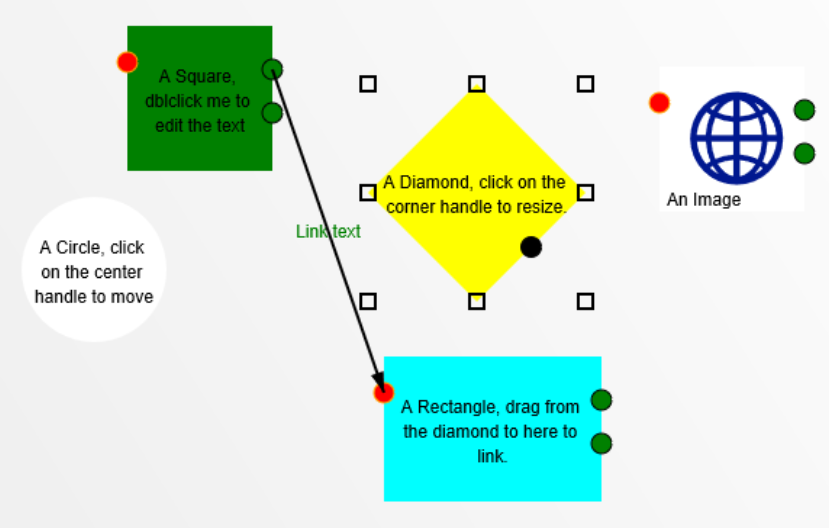
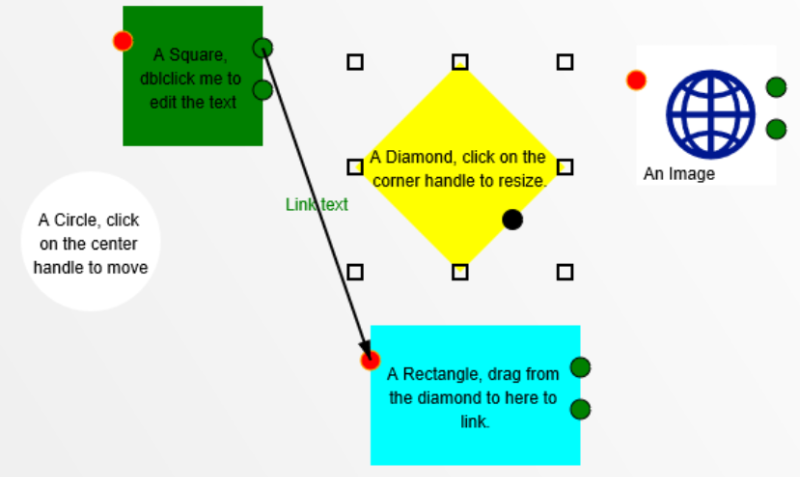
Added rough option

diff --git a/rough.js b/rough.js
@@ -1,0 +1,1 @@
+var rough=function(){"use strict";function t(t,e,s){if(t&&t.length){const[n,o]=e,a=Math.PI/180*s,r=Math.cos(a),h=Math.sin(a);t.forEach(t=>{const[e,s]=t;t[0]=(e-n)*r-(s-o)*h+n,t[1]=(e-n)*h+(s-o)*r+o})}}function e(t){const e=t[0],s=t[1];return Math.sqrt(Math.pow(e[0]-s[0],2)+Math.pow(e[1]-s[1],2))}function s(t,e,s,n){const o=e[1]-t[1],a=t[0]-e[0],r=o*t[0]+a*t[1],h=n[1]-s[1],i=s[0]-n[0],c=h*s[0]+i*s[1],l=o*i-h*a;return l?[(i*r-a*c)/l,(o*c-h*r)/l]:null}function n(t,e,s){const n=t.length;if(n<3)return!1;const h=[Number.MAX_SAFE_INTEGER,s],i=[e,s];let c=0;for(let e=0;e<n;e++){const s=t[e],l=t[(e+1)%n];if(r(s,l,i,h)){if(0===a(s,i,l))return o(s,i,l);c++}}return c%2==1}function o(t,e,s){return e[0]<=Math.max(t[0],s[0])&&e[0]>=Math.min(t[0],s[0])&&e[1]<=Math.max(t[1],s[1])&&e[1]>=Math.min(t[1],s[1])}function a(t,e,s){const n=(e[1]-t[1])*(s[0]-e[0])-(e[0]-t[0])*(s[1]-e[1]);return 0===n?0:n>0?1:2}function r(t,e,s,n){const r=a(t,e,s),h=a(t,e,n),i=a(s,n,t),c=a(s,n,e);return r!==h&&i!==c||(!(0!==r||!o(t,s,e))||(!(0!==h||!o(t,n,e))||(!(0!==i||!o(s,t,n))||!(0!==c||!o(s,e,n)))))}function h(e,s){const n=[0,0],o=Math.round(s.hachureAngle+90);o&&t(e,n,o);const a=function(t,e){const s=[...t];s[0].join(",")!==s[s.length-1].join(",")&&s.push([s[0][0],s[0][1]]);const n=[];if(s&&s.length>2){let t=e.hachureGap;t<0&&(t=4*e.strokeWidth),t=Math.max(t,.1);const o=[];for(let t=0;t<s.length-1;t++){const e=s[t],n=s[t+1];if(e[1]!==n[1]){const t=Math.min(e[1],n[1]);o.push({ymin:t,ymax:Math.max(e[1],n[1]),x:t===e[1]?e[0]:n[0],islope:(n[0]-e[0])/(n[1]-e[1])})}}if(o.sort((t,e)=>t.ymin<e.ymin?-1:t.ymin>e.ymin?1:t.x<e.x?-1:t.x>e.x?1:t.ymax===e.ymax?0:(t.ymax-e.ymax)/Math.abs(t.ymax-e.ymax)),!o.length)return n;let a=[],r=o[0].ymin;for(;a.length||o.length;){if(o.length){let t=-1;for(let e=0;e<o.length&&!(o[e].ymin>r);e++)t=e;o.splice(0,t+1).forEach(t=>{a.push({s:r,edge:t})})}if(a=a.filter(t=>!(t.edge.ymax<=r)),a.sort((t,e)=>t.edge.x===e.edge.x?0:(t.edge.x-e.edge.x)/Math.abs(t.edge.x-e.edge.x)),a.length>1)for(let t=0;t<a.length;t+=2){const e=t+1;if(e>=a.length)break;const s=a[t].edge,o=a[e].edge;n.push([[Math.round(s.x),r],[Math.round(o.x),r]])}r+=t,a.forEach(e=>{e.edge.x=e.edge.x+t*e.edge.islope})}}return n}(e,s);return o&&(t(e,n,-o),function(e,s,n){const o=[];e.forEach(t=>o.push(...t)),t(o,s,n)}(a,n,-o)),a}class i{constructor(t){this.helper=t}fillPolygon(t,e){return this._fillPolygon(t,e)}_fillPolygon(t,e,s=!1){let n=h(t,e);if(s){const e=this.connectingLines(t,n);n=n.concat(e)}return{type:"fillSketch",ops:this.renderLines(n,e)}}renderLines(t,e){const s=[];for(const n of t)s.push(...this.helper.doubleLineOps(n[0][0],n[0][1],n[1][0],n[1][1],e));return s}connectingLines(t,s){const n=[];if(s.length>1)for(let o=1;o<s.length;o++){const a=s[o-1];if(e(a)<3)continue;const r=[s[o][0],a[1]];if(e(r)>3){const e=this.splitOnIntersections(t,r);n.push(...e)}}return n}midPointInPolygon(t,e){return n(t,(e[0][0]+e[1][0])/2,(e[0][1]+e[1][1])/2)}splitOnIntersections(t,o){const a=Math.max(5,.1*e(o)),h=[];for(let n=0;n<t.length;n++){const i=t[n],c=t[(n+1)%t.length];if(r(i,c,...o)){const t=s(i,c,o[0],o[1]);if(t){const s=e([t,o[0]]),n=e([t,o[1]]);s>a&&n>a&&h.push({point:t,distance:s})}}}if(h.length>1){const e=h.sort((t,e)=>t.distance-e.distance).map(t=>t.point);if(n(t,...o[0])||e.shift(),n(t,...o[1])||e.pop(),e.length<=1)return this.midPointInPolygon(t,o)?[o]:[];const s=[o[0],...e,o[1]],a=[];for(let e=0;e<s.length-1;e+=2){const n=[s[e],s[e+1]];this.midPointInPolygon(t,n)&&a.push(n)}return a}return this.midPointInPolygon(t,o)?[o]:[]}}class c extends i{fillPolygon(t,e){return this._fillPolygon(t,e,!0)}}class l extends i{fillPolygon(t,e){const s=this._fillPolygon(t,e),n=Object.assign({},e,{hachureAngle:e.hachureAngle+90}),o=this._fillPolygon(t,n);return s.ops=s.ops.concat(o.ops),s}}class u{constructor(t){this.helper=t}fillPolygon(t,e){const s=h(t,e=Object.assign({},e,{curveStepCount:4,hachureAngle:0,roughness:1}));return this.dotsOnLines(s,e)}dotsOnLines(t,s){const n=[];let o=s.hachureGap;o<0&&(o=4*s.strokeWidth),o=Math.max(o,.1);let a=s.fillWeight;a<0&&(a=s.strokeWidth/2);const r=o/4;for(const h of t){const t=e(h),i=t/o,c=Math.ceil(i)-1,l=t-c*o,u=(h[0][0]+h[1][0])/2-o/4,f=Math.min(h[0][1],h[1][1]);for(let t=0;t<c;t++){const e=f+l+t*o,h=this.helper.randOffsetWithRange(u-r,u+r,s),i=this.helper.randOffsetWithRange(e-r,e+r,s),c=this.helper.ellipse(h,i,a,a,s);n.push(...c.ops)}}return{type:"fillSketch",ops:n}}}class f{constructor(t){this.helper=t}fillPolygon(t,e){const s=h(t,e);return{type:"fillSketch",ops:this.dashedLine(s,e)}}dashedLine(t,s){const n=s.dashOffset<0?s.hachureGap<0?4*s.strokeWidth:s.hachureGap:s.dashOffset,o=s.dashGap<0?s.hachureGap<0?4*s.strokeWidth:s.hachureGap:s.dashGap,a=[];return t.forEach(t=>{const r=e(t),h=Math.floor(r/(n+o)),i=(r+o-h*(n+o))/2;let c=t[0],l=t[1];c[0]>l[0]&&(c=t[1],l=t[0]);const u=Math.atan((l[1]-c[1])/(l[0]-c[0]));for(let t=0;t<h;t++){const e=t*(n+o),r=e+n,h=[c[0]+e*Math.cos(u)+i*Math.cos(u),c[1]+e*Math.sin(u)+i*Math.sin(u)],l=[c[0]+r*Math.cos(u)+i*Math.cos(u),c[1]+r*Math.sin(u)+i*Math.sin(u)];a.push(...this.helper.doubleLineOps(h[0],h[1],l[0],l[1],s))}}),a}}class p{constructor(t){this.helper=t}fillPolygon(t,e){const s=e.hachureGap<0?4*e.strokeWidth:e.hachureGap,n=e.zigzagOffset<0?s:e.zigzagOffset,o=h(t,e=Object.assign({},e,{hachureGap:s+n}));return{type:"fillSketch",ops:this.zigzagLines(o,n,e)}}zigzagLines(t,s,n){const o=[];return t.forEach(t=>{const a=e(t),r=Math.round(a/(2*s));let h=t[0],i=t[1];h[0]>i[0]&&(h=t[1],i=t[0]);const c=Math.atan((i[1]-h[1])/(i[0]-h[0]));for(let t=0;t<r;t++){const e=2*t*s,a=2*(t+1)*s,r=Math.sqrt(2*Math.pow(s,2)),i=[h[0]+e*Math.cos(c),h[1]+e*Math.sin(c)],l=[h[0]+a*Math.cos(c),h[1]+a*Math.sin(c)],u=[i[0]+r*Math.cos(c+Math.PI/4),i[1]+r*Math.sin(c+Math.PI/4)];o.push(...this.helper.doubleLineOps(i[0],i[1],u[0],u[1],n),...this.helper.doubleLineOps(u[0],u[1],l[0],l[1],n))}}),o}}const d={};class g{constructor(t){this.seed=t}next(){return this.seed?(2**31-1&(this.seed=Math.imul(48271,this.seed)))/2**31:Math.random()}}const M={A:7,a:7,C:6,c:6,H:1,h:1,L:2,l:2,M:2,m:2,Q:4,q:4,S:4,s:4,T:2,t:2,V:1,v:1,Z:0,z:0};function k(t,e){return t.type===e}function b(t){const e=[],s=function(t){const e=new Array;for(;""!==t;)if(t.match(/^([ \t\r\n,]+)/))t=t.substr(RegExp.$1.length);else if(t.match(/^([aAcChHlLmMqQsStTvVzZ])/))e[e.length]={type:0,text:RegExp.$1},t=t.substr(RegExp.$1.length);else{if(!t.match(/^(([-+]?[0-9]+(\.[0-9]*)?|[-+]?\.[0-9]+)([eE][-+]?[0-9]+)?)/))return[];e[e.length]={type:1,text:""+parseFloat(RegExp.$1)},t=t.substr(RegExp.$1.length)}return e[e.length]={type:2,text:""},e}(t);let n="BOD",o=0,a=s[o];for(;!k(a,2);){let r=0;const h=[];if("BOD"===n){if("M"!==a.text&&"m"!==a.text)return b("M0,0"+t);o++,r=M[a.text],n=a.text}else k(a,1)?r=M[n]:(o++,r=M[a.text],n=a.text);if(!(o+r<s.length))throw new Error("Path data ended short");for(let t=o;t<o+r;t++){const e=s[t];if(!k(e,1))throw new Error("Param not a number: "+n+","+e.text);h[h.length]=+e.text}if("number"!=typeof M[n])throw new Error("Bad segment: "+n);{const t={key:n,data:h};e.push(t),o+=r,a=s[o],"M"===n&&(n="L"),"m"===n&&(n="l")}}return e}function y(t){let e=0,s=0,n=0,o=0;const a=[];for(const{key:r,data:h}of t)switch(r){case"M":a.push({key:"M",data:[...h]}),[e,s]=h,[n,o]=h;break;case"m":e+=h[0],s+=h[1],a.push({key:"M",data:[e,s]}),n=e,o=s;break;case"L":a.push({key:"L",data:[...h]}),[e,s]=h;break;case"l":e+=h[0],s+=h[1],a.push({key:"L",data:[e,s]});break;case"C":a.push({key:"C",data:[...h]}),e=h[4],s=h[5];break;case"c":{const t=h.map((t,n)=>n%2?t+s:t+e);a.push({key:"C",data:t}),e=t[4],s=t[5];break}case"Q":a.push({key:"Q",data:[...h]}),e=h[2],s=h[3];break;case"q":{const t=h.map((t,n)=>n%2?t+s:t+e);a.push({key:"Q",data:t}),e=t[2],s=t[3];break}case"A":a.push({key:"A",data:[...h]}),e=h[5],s=h[6];break;case"a":e+=h[5],s+=h[6],a.push({key:"A",data:[h[0],h[1],h[2],h[3],h[4],e,s]});break;case"H":a.push({key:"H",data:[...h]}),e=h[0];break;case"h":e+=h[0],a.push({key:"H",data:[e]});break;case"V":a.push({key:"V",data:[...h]}),s=h[0];break;case"v":s+=h[0],a.push({key:"V",data:[s]});break;case"S":a.push({key:"S",data:[...h]}),e=h[2],s=h[3];break;case"s":{const t=h.map((t,n)=>n%2?t+s:t+e);a.push({key:"S",data:t}),e=t[2],s=t[3];break}case"T":a.push({key:"T",data:[...h]}),e=h[0],s=h[1];break;case"t":e+=h[0],s+=h[1],a.push({key:"T",data:[e,s]});break;case"Z":case"z":a.push({key:"Z",data:[]}),e=n,s=o}return a}function m(t){const e=[];let s="",n=0,o=0,a=0,r=0,h=0,i=0;for(const{key:c,data:l}of t){switch(c){case"M":e.push({key:"M",data:[...l]}),[n,o]=l,[a,r]=l;break;case"C":e.push({key:"C",data:[...l]}),n=l[4],o=l[5],h=l[2],i=l[3];break;case"L":e.push({key:"L",data:[...l]}),[n,o]=l;break;case"H":n=l[0],e.push({key:"L",data:[n,o]});break;case"V":o=l[0],e.push({key:"L",data:[n,o]});break;case"S":{let t=0,a=0;"C"===s||"S"===s?(t=n+(n-h),a=o+(o-i)):(t=n,a=o),e.push({key:"C",data:[t,a,...l]}),h=l[0],i=l[1],n=l[2],o=l[3];break}case"T":{const[t,a]=l;let r=0,c=0;"Q"===s||"T"===s?(r=n+(n-h),c=o+(o-i)):(r=n,c=o);const u=n+2*(r-n)/3,f=o+2*(c-o)/3,p=t+2*(r-t)/3,d=a+2*(c-a)/3;e.push({key:"C",data:[u,f,p,d,t,a]}),h=r,i=c,n=t,o=a;break}case"Q":{const[t,s,a,r]=l,c=n+2*(t-n)/3,u=o+2*(s-o)/3,f=a+2*(t-a)/3,p=r+2*(s-r)/3;e.push({key:"C",data:[c,u,f,p,a,r]}),h=t,i=s,n=a,o=r;break}case"A":{const t=Math.abs(l[0]),s=Math.abs(l[1]),a=l[2],r=l[3],h=l[4],i=l[5],c=l[6];if(0===t||0===s)e.push({key:"C",data:[n,o,i,c,i,c]}),n=i,o=c;else if(n!==i||o!==c){P(n,o,i,c,t,s,a,r,h).forEach((function(t){e.push({key:"C",data:t})})),n=i,o=c}break}case"Z":e.push({key:"Z",data:[]}),n=a,o=r}s=c}return e}function w(t,e,s){return[t*Math.cos(s)-e*Math.sin(s),t*Math.sin(s)+e*Math.cos(s)]}function P(t,e,s,n,o,a,r,h,i,c){const l=(u=r,Math.PI*u/180);var u;let f=[],p=0,d=0,g=0,M=0;if(c)[p,d,g,M]=c;else{[t,e]=w(t,e,-l),[s,n]=w(s,n,-l);const r=(t-s)/2,c=(e-n)/2;let u=r*r/(o*o)+c*c/(a*a);u>1&&(u=Math.sqrt(u),o*=u,a*=u);const f=o*o,k=a*a,b=f*k-f*c*c-k*r*r,y=f*c*c+k*r*r,m=(h===i?-1:1)*Math.sqrt(Math.abs(b/y));g=m*o*c/a+(t+s)/2,M=m*-a*r/o+(e+n)/2,p=Math.asin(parseFloat(((e-M)/a).toFixed(9))),d=Math.asin(parseFloat(((n-M)/a).toFixed(9))),t<g&&(p=Math.PI-p),s<g&&(d=Math.PI-d),p<0&&(p=2*Math.PI+p),d<0&&(d=2*Math.PI+d),i&&p>d&&(p-=2*Math.PI),!i&&d>p&&(d-=2*Math.PI)}let k=d-p;if(Math.abs(k)>120*Math.PI/180){const t=d,e=s,h=n;d=i&&d>p?p+120*Math.PI/180*1:p+120*Math.PI/180*-1,f=P(s=g+o*Math.cos(d),n=M+a*Math.sin(d),e,h,o,a,r,0,i,[d,t,g,M])}k=d-p;const b=Math.cos(p),y=Math.sin(p),m=Math.cos(d),x=Math.sin(d),v=Math.tan(k/4),O=4/3*o*v,S=4/3*a*v,L=[t,e],T=[t+O*y,e-S*b],I=[s+O*x,n-S*m],A=[s,n];if(T[0]=2*L[0]-T[0],T[1]=2*L[1]-T[1],c)return[T,I,A].concat(f);{f=[T,I,A].concat(f);const t=[];for(let e=0;e<f.length;e+=3){const s=w(f[e][0],f[e][1],l),n=w(f[e+1][0],f[e+1][1],l),o=w(f[e+2][0],f[e+2][1],l);t.push([s[0],s[1],n[0],n[1],o[0],o[1]])}return t}}const x={randOffset:function(t,e){return W(t,e)},randOffsetWithRange:function(t,e,s){return E(t,e,s)},ellipse:function(t,e,s,n,o){const a=T(s,n,o);return I(t,e,o,a).opset},doubleLineOps:function(t,e,s,n,o){return z(t,e,s,n,o,!0)}};function v(t,e,s,n,o){return{type:"path",ops:z(t,e,s,n,o)}}function O(t,e,s){const n=(t||[]).length;if(n>2){const o=[];for(let e=0;e<n-1;e++)o.push(...z(t[e][0],t[e][1],t[e+1][0],t[e+1][1],s));return e&&o.push(...z(t[n-1][0],t[n-1][1],t[0][0],t[0][1],s)),{type:"path",ops:o}}return 2===n?v(t[0][0],t[0][1],t[1][0],t[1][1],s):{type:"path",ops:[]}}function S(t,e,s,n,o){return function(t,e){return O(t,!0,e)}([[t,e],[t+s,e],[t+s,e+n],[t,e+n]],o)}function L(t,e){let s=$(t,1*(1+.2*e.roughness),e);if(!e.disableMultiStroke){const n=$(t,1.5*(1+.22*e.roughness),function(t){const e=Object.assign({},t);e.randomizer=void 0,t.seed&&(e.seed=t.seed+1);return e}(e));s=s.concat(n)}return{type:"path",ops:s}}function T(t,e,s){const n=Math.sqrt(2*Math.PI*Math.sqrt((Math.pow(t/2,2)+Math.pow(e/2,2))/2)),o=Math.max(s.curveStepCount,s.curveStepCount/Math.sqrt(200)*n),a=2*Math.PI/o;let r=Math.abs(t/2),h=Math.abs(e/2);const i=1-s.curveFitting;return r+=W(r*i,s),h+=W(h*i,s),{increment:a,rx:r,ry:h}}function I(t,e,s,n){const[o,a]=q(n.increment,t,e,n.rx,n.ry,1,n.increment*E(.1,E(.4,1,s),s),s);let r=G(o,null,s);if(!s.disableMultiStroke){const[o]=q(n.increment,t,e,n.rx,n.ry,1.5,0,s),a=G(o,null,s);r=r.concat(a)}return{estimatedPoints:a,opset:{type:"path",ops:r}}}function A(t,e,s,n,o,a,r,h,i){const c=t,l=e;let u=Math.abs(s/2),f=Math.abs(n/2);u+=W(.01*u,i),f+=W(.01*f,i);let p=o,d=a;for(;p<0;)p+=2*Math.PI,d+=2*Math.PI;d-p>2*Math.PI&&(p=0,d=2*Math.PI);const g=2*Math.PI/i.curveStepCount,M=Math.min(g/2,(d-p)/2),k=F(M,c,l,u,f,p,d,1,i);if(!i.disableMultiStroke){const t=F(M,c,l,u,f,p,d,1.5,i);k.push(...t)}return r&&(h?k.push(...z(c,l,c+u*Math.cos(p),l+f*Math.sin(p),i),...z(c,l,c+u*Math.cos(d),l+f*Math.sin(d),i)):k.push({op:"lineTo",data:[c,l]},{op:"lineTo",data:[c+u*Math.cos(p),l+f*Math.sin(p)]})),{type:"path",ops:k}}function _(t,e){const s=[];if(t.length){const n=e.maxRandomnessOffset||0,o=t.length;if(o>2){s.push({op:"move",data:[t[0][0]+W(n,e),t[0][1]+W(n,e)]});for(let a=1;a<o;a++)s.push({op:"lineTo",data:[t[a][0]+W(n,e),t[a][1]+W(n,e)]})}}return{type:"fillPath",ops:s}}function C(t,e){return function(t,e){let s=t.fillStyle||"hachure";if(!d[s])switch(s){case"zigzag":d[s]||(d[s]=new c(e));break;case"cross-hatch":d[s]||(d[s]=new l(e));break;case"dots":d[s]||(d[s]=new u(e));break;case"dashed":d[s]||(d[s]=new f(e));break;case"zigzag-line":d[s]||(d[s]=new p(e));break;case"hachure":default:s="hachure",d[s]||(d[s]=new i(e))}return d[s]}(e,x).fillPolygon(t,e)}function D(t){return t.randomizer||(t.randomizer=new g(t.seed||0)),t.randomizer.next()}function E(t,e,s,n=1){return s.roughness*n*(D(s)*(e-t)+t)}function W(t,e,s=1){return E(-t,t,e,s)}function z(t,e,s,n,o,a=!1){const r=a?o.disableMultiStrokeFill:o.disableMultiStroke,h=R(t,e,s,n,o,!0,!1);if(r)return h;const i=R(t,e,s,n,o,!0,!0);return h.concat(i)}function R(t,e,s,n,o,a,r){const h=Math.pow(t-s,2)+Math.pow(e-n,2),i=Math.sqrt(h);let c=1;c=i<200?1:i>500?.4:-.0016668*i+1.233334;let l=o.maxRandomnessOffset||0;l*l*100>h&&(l=i/10);const u=l/2,f=.2+.2*D(o);let p=o.bowing*o.maxRandomnessOffset*(n-e)/200,d=o.bowing*o.maxRandomnessOffset*(t-s)/200;p=W(p,o,c),d=W(d,o,c);const g=[],M=()=>W(u,o,c),k=()=>W(l,o,c);return a&&(r?g.push({op:"move",data:[t+M(),e+M()]}):g.push({op:"move",data:[t+W(l,o,c),e+W(l,o,c)]})),r?g.push({op:"bcurveTo",data:[p+t+(s-t)*f+M(),d+e+(n-e)*f+M(),p+t+2*(s-t)*f+M(),d+e+2*(n-e)*f+M(),s+M(),n+M()]}):g.push({op:"bcurveTo",data:[p+t+(s-t)*f+k(),d+e+(n-e)*f+k(),p+t+2*(s-t)*f+k(),d+e+2*(n-e)*f+k(),s+k(),n+k()]}),g}function $(t,e,s){const n=[];n.push([t[0][0]+W(e,s),t[0][1]+W(e,s)]),n.push([t[0][0]+W(e,s),t[0][1]+W(e,s)]);for(let o=1;o<t.length;o++)n.push([t[o][0]+W(e,s),t[o][1]+W(e,s)]),o===t.length-1&&n.push([t[o][0]+W(e,s),t[o][1]+W(e,s)]);return G(n,null,s)}function G(t,e,s){const n=t.length,o=[];if(n>3){const a=[],r=1-s.curveTightness;o.push({op:"move",data:[t[1][0],t[1][1]]});for(let e=1;e+2<n;e++){const s=t[e];a[0]=[s[0],s[1]],a[1]=[s[0]+(r*t[e+1][0]-r*t[e-1][0])/6,s[1]+(r*t[e+1][1]-r*t[e-1][1])/6],a[2]=[t[e+1][0]+(r*t[e][0]-r*t[e+2][0])/6,t[e+1][1]+(r*t[e][1]-r*t[e+2][1])/6],a[3]=[t[e+1][0],t[e+1][1]],o.push({op:"bcurveTo",data:[a[1][0],a[1][1],a[2][0],a[2][1],a[3][0],a[3][1]]})}if(e&&2===e.length){const t=s.maxRandomnessOffset;o.push({op:"lineTo",data:[e[0]+W(t,s),e[1]+W(t,s)]})}}else 3===n?(o.push({op:"move",data:[t[1][0],t[1][1]]}),o.push({op:"bcurveTo",data:[t[1][0],t[1][1],t[2][0],t[2][1],t[2][0],t[2][1]]})):2===n&&o.push(...z(t[0][0],t[0][1],t[1][0],t[1][1],s));return o}function q(t,e,s,n,o,a,r,h){const i=[],c=[],l=W(.5,h)-Math.PI/2;c.push([W(a,h)+e+.9*n*Math.cos(l-t),W(a,h)+s+.9*o*Math.sin(l-t)]);for(let r=l;r<2*Math.PI+l-.01;r+=t){const t=[W(a,h)+e+n*Math.cos(r),W(a,h)+s+o*Math.sin(r)];i.push(t),c.push(t)}return c.push([W(a,h)+e+n*Math.cos(l+2*Math.PI+.5*r),W(a,h)+s+o*Math.sin(l+2*Math.PI+.5*r)]),c.push([W(a,h)+e+.98*n*Math.cos(l+r),W(a,h)+s+.98*o*Math.sin(l+r)]),c.push([W(a,h)+e+.9*n*Math.cos(l+.5*r),W(a,h)+s+.9*o*Math.sin(l+.5*r)]),[c,i]}function F(t,e,s,n,o,a,r,h,i){const c=a+W(.1,i),l=[];l.push([W(h,i)+e+.9*n*Math.cos(c-t),W(h,i)+s+.9*o*Math.sin(c-t)]);for(let a=c;a<=r;a+=t)l.push([W(h,i)+e+n*Math.cos(a),W(h,i)+s+o*Math.sin(a)]);return l.push([e+n*Math.cos(r),s+o*Math.sin(r)]),l.push([e+n*Math.cos(r),s+o*Math.sin(r)]),G(l,null,i)}function j(t,e,s,n,o,a,r,h){const i=[],c=[h.maxRandomnessOffset||1,(h.maxRandomnessOffset||1)+.3];let l=[0,0];const u=h.disableMultiStroke?1:2;for(let f=0;f<u;f++)0===f?i.push({op:"move",data:[r[0],r[1]]}):i.push({op:"move",data:[r[0]+W(c[0],h),r[1]+W(c[0],h)]}),l=[o+W(c[f],h),a+W(c[f],h)],i.push({op:"bcurveTo",data:[t+W(c[f],h),e+W(c[f],h),s+W(c[f],h),n+W(c[f],h),l[0],l[1]]});return i}function N(t){return[...t]}function Z(t,e){return Math.pow(t[0]-e[0],2)+Math.pow(t[1]-e[1],2)}function Q(t,e,s){const n=Z(e,s);if(0===n)return Z(t,e);let o=((t[0]-e[0])*(s[0]-e[0])+(t[1]-e[1])*(s[1]-e[1]))/n;return o=Math.max(0,Math.min(1,o)),Z(t,H(e,s,o))}function H(t,e,s){return[t[0]+(e[0]-t[0])*s,t[1]+(e[1]-t[1])*s]}function V(t,e,s,n){const o=n||[];if(function(t,e){const s=t[e+0],n=t[e+1],o=t[e+2],a=t[e+3];let r=3*n[0]-2*s[0]-a[0];r*=r;let h=3*n[1]-2*s[1]-a[1];h*=h;let i=3*o[0]-2*a[0]-s[0];i*=i;let c=3*o[1]-2*a[1]-s[1];return c*=c,r<i&&(r=i),h<c&&(h=c),r+h}(t,e)<s){const s=t[e+0];if(o.length){(a=o[o.length-1],r=s,Math.sqrt(Z(a,r)))>1&&o.push(s)}else o.push(s);o.push(t[e+3])}else{const n=.5,a=t[e+0],r=t[e+1],h=t[e+2],i=t[e+3],c=H(a,r,n),l=H(r,h,n),u=H(h,i,n),f=H(c,l,n),p=H(l,u,n),d=H(f,p,n);V([a,c,f,d],0,s,o),V([d,p,u,i],0,s,o)}var a,r;return o}function B(t,e){return X(t,0,t.length,e)}function X(t,e,s,n,o){const a=o||[],r=t[e],h=t[s-1];let i=0,c=1;for(let n=e+1;n<s-1;++n){const e=Q(t[n],r,h);e>i&&(i=e,c=n)}return Math.sqrt(i)>n?(X(t,e,c+1,n,a),X(t,c,s,n,a)):(a.length||a.push(r),a.push(h)),a}function J(t,e=.15,s){const n=[],o=(t.length-1)/3;for(let s=0;s<o;s++){V(t,3*s,e,n)}return s&&s>0?X(n,0,n.length,s):n}const K="none";class U{constructor(t){this.defaultOptions={maxRandomnessOffset:2,roughness:1,bowing:1,stroke:"#000",strokeWidth:1,curveTightness:0,curveFitting:.95,curveStepCount:9,fillStyle:"hachure",fillWeight:-1,hachureAngle:-41,hachureGap:-1,dashOffset:-1,dashGap:-1,zigzagOffset:-1,seed:0,combineNestedSvgPaths:!1,disableMultiStroke:!1,disableMultiStrokeFill:!1},this.config=t||{},this.config.options&&(this.defaultOptions=this._o(this.config.options))}static newSeed(){return Math.floor(Math.random()*2**31)}_o(t){return t?Object.assign({},this.defaultOptions,t):this.defaultOptions}_d(t,e,s){return{shape:t,sets:e||[],options:s||this.defaultOptions}}line(t,e,s,n,o){const a=this._o(o);return this._d("line",[v(t,e,s,n,a)],a)}rectangle(t,e,s,n,o){const a=this._o(o),r=[],h=S(t,e,s,n,a);if(a.fill){const o=[[t,e],[t+s,e],[t+s,e+n],[t,e+n]];"solid"===a.fillStyle?r.push(_(o,a)):r.push(C(o,a))}return a.stroke!==K&&r.push(h),this._d("rectangle",r,a)}ellipse(t,e,s,n,o){const a=this._o(o),r=[],h=T(s,n,a),i=I(t,e,a,h);if(a.fill)if("solid"===a.fillStyle){const s=I(t,e,a,h).opset;s.type="fillPath",r.push(s)}else r.push(C(i.estimatedPoints,a));return a.stroke!==K&&r.push(i.opset),this._d("ellipse",r,a)}circle(t,e,s,n){const o=this.ellipse(t,e,s,s,n);return o.shape="circle",o}linearPath(t,e){const s=this._o(e);return this._d("linearPath",[O(t,!1,s)],s)}arc(t,e,s,n,o,a,r=!1,h){const i=this._o(h),c=[],l=A(t,e,s,n,o,a,r,!0,i);if(r&&i.fill)if("solid"===i.fillStyle){const r=A(t,e,s,n,o,a,!0,!1,i);r.type="fillPath",c.push(r)}else c.push(function(t,e,s,n,o,a,r){const h=t,i=e;let c=Math.abs(s/2),l=Math.abs(n/2);c+=W(.01*c,r),l+=W(.01*l,r);let u=o,f=a;for(;u<0;)u+=2*Math.PI,f+=2*Math.PI;f-u>2*Math.PI&&(u=0,f=2*Math.PI);const p=(f-u)/r.curveStepCount,d=[];for(let t=u;t<=f;t+=p)d.push([h+c*Math.cos(t),i+l*Math.sin(t)]);return d.push([h+c*Math.cos(f),i+l*Math.sin(f)]),d.push([h,i]),C(d,r)}(t,e,s,n,o,a,i));return i.stroke!==K&&c.push(l),this._d("arc",c,i)}curve(t,e){const s=this._o(e),n=[],o=L(t,s);if(s.fill&&s.fill!==K&&t.length>=3){const e=J(function(t,e=0){const s=t.length;if(s<3)throw new Error("A curve must have at least three points.");const n=[];if(3===s)n.push(N(t[0]),N(t[1]),N(t[2]),N(t[2]));else{const s=[];s.push(t[0],t[0]);for(let e=1;e<t.length;e++)s.push(t[e]),e===t.length-1&&s.push(t[e]);const o=[],a=1-e;n.push(N(s[0]));for(let t=1;t+2<s.length;t++){const e=s[t];o[0]=[e[0],e[1]],o[1]=[e[0]+(a*s[t+1][0]-a*s[t-1][0])/6,e[1]+(a*s[t+1][1]-a*s[t-1][1])/6],o[2]=[s[t+1][0]+(a*s[t][0]-a*s[t+2][0])/6,s[t+1][1]+(a*s[t][1]-a*s[t+2][1])/6],o[3]=[s[t+1][0],s[t+1][1]],n.push(o[1],o[2],o[3])}}return n}(t),10,(1+s.roughness)/2);"solid"===s.fillStyle?n.push(_(e,s)):n.push(C(e,s))}return s.stroke!==K&&n.push(o),this._d("curve",n,s)}polygon(t,e){const s=this._o(e),n=[],o=O(t,!0,s);return s.fill&&("solid"===s.fillStyle?n.push(_(t,s)):n.push(C(t,s))),s.stroke!==K&&n.push(o),this._d("polygon",n,s)}path(t,e){const s=this._o(e),n=[];if(!t)return this._d("path",n,s);t=(t||"").replace(/\n/g," ").replace(/(-\s)/g,"-").replace("/(ss)/g"," ");const o=s.fill&&"transparent"!==s.fill&&s.fill!==K,a=s.stroke!==K,r=!!(s.simplification&&s.simplification<1),h=function(t,e,s){const n=m(y(b(t))),o=[];let a=[],r=[0,0],h=[];const i=()=>{h.length>=4&&a.push(...J(h,e)),h=[]},c=()=>{i(),a.length&&(o.push(a),a=[])};for(const{key:t,data:e}of n)switch(t){case"M":c(),r=[e[0],e[1]],a.push(r);break;case"L":i(),a.push([e[0],e[1]]);break;case"C":if(!h.length){const t=a.length?a[a.length-1]:r;h.push([t[0],t[1]])}h.push([e[0],e[1]]),h.push([e[2],e[3]]),h.push([e[4],e[5]]);break;case"Z":i(),a.push([r[0],r[1]])}if(c(),!s)return o;const l=[];for(const t of o){const e=B(t,s);e.length&&l.push(e)}return l}(t,1,r?4-4*s.simplification:(1+s.roughness)/2);if(o)if(s.combineNestedSvgPaths){const t=[];h.forEach(e=>t.push(...e)),"solid"===s.fillStyle?n.push(_(t,s)):n.push(C(t,s))}else h.forEach(t=>{"solid"===s.fillStyle?n.push(_(t,s)):n.push(C(t,s))});return a&&(r?h.forEach(t=>{n.push(O(t,!1,s))}):n.push(function(t,e){const s=m(y(b(t))),n=[];let o=[0,0],a=[0,0];for(const{key:t,data:r}of s)switch(t){case"M":{const t=1*(e.maxRandomnessOffset||0);n.push({op:"move",data:r.map(s=>s+W(t,e))}),a=[r[0],r[1]],o=[r[0],r[1]];break}case"L":n.push(...z(a[0],a[1],r[0],r[1],e)),a=[r[0],r[1]];break;case"C":{const[t,s,o,h,i,c]=r;n.push(...j(t,s,o,h,i,c,a,e)),a=[i,c];break}case"Z":n.push(...z(a[0],a[1],o[0],o[1],e)),a=[o[0],o[1]]}return{type:"path",ops:n}}(t,s))),this._d("path",n,s)}opsToPath(t){let e="";for(const s of t.ops){const t=s.data;switch(s.op){case"move":e+=`M${t[0]} ${t[1]} `;break;case"bcurveTo":e+=`C${t[0]} ${t[1]}, ${t[2]} ${t[3]}, ${t[4]} ${t[5]} `;break;case"lineTo":e+=`L${t[0]} ${t[1]} `}}return e.trim()}toPaths(t){const e=t.sets||[],s=t.options||this.defaultOptions,n=[];for(const t of e){let e=null;switch(t.type){case"path":e={d:this.opsToPath(t),stroke:s.stroke,strokeWidth:s.strokeWidth,fill:K};break;case"fillPath":e={d:this.opsToPath(t),stroke:K,strokeWidth:0,fill:s.fill||K};break;case"fillSketch":e=this.fillSketch(t,s)}e&&n.push(e)}return n}fillSketch(t,e){let s=e.fillWeight;return s<0&&(s=e.strokeWidth/2),{d:this.opsToPath(t),stroke:e.fill||K,strokeWidth:s,fill:K}}}class Y{constructor(t,e){this.canvas=t,this.ctx=this.canvas.getContext("2d"),this.gen=new U(e)}draw(t){const e=t.sets||[],s=t.options||this.getDefaultOptions(),n=this.ctx;for(const o of e)switch(o.type){case"path":n.save(),n.strokeStyle="none"===s.stroke?"transparent":s.stroke,n.lineWidth=s.strokeWidth,s.strokeLineDash&&n.setLineDash(s.strokeLineDash),s.strokeLineDashOffset&&(n.lineDashOffset=s.strokeLineDashOffset),this._drawToContext(n,o),n.restore();break;case"fillPath":n.save(),n.fillStyle=s.fill||"";const e="curve"===t.shape||"polygon"===t.shape?"evenodd":"nonzero";this._drawToContext(n,o,e),n.restore();break;case"fillSketch":this.fillSketch(n,o,s)}}fillSketch(t,e,s){let n=s.fillWeight;n<0&&(n=s.strokeWidth/2),t.save(),s.fillLineDash&&t.setLineDash(s.fillLineDash),s.fillLineDashOffset&&(t.lineDashOffset=s.fillLineDashOffset),t.strokeStyle=s.fill||"",t.lineWidth=n,this._drawToContext(t,e),t.restore()}_drawToContext(t,e,s="nonzero"){t.beginPath();for(const s of e.ops){const e=s.data;switch(s.op){case"move":t.moveTo(e[0],e[1]);break;case"bcurveTo":t.bezierCurveTo(e[0],e[1],e[2],e[3],e[4],e[5]);break;case"lineTo":t.lineTo(e[0],e[1])}}"fillPath"===e.type?t.fill(s):t.stroke()}get generator(){return this.gen}getDefaultOptions(){return this.gen.defaultOptions}line(t,e,s,n,o){const a=this.gen.line(t,e,s,n,o);return this.draw(a),a}rectangle(t,e,s,n,o){const a=this.gen.rectangle(t,e,s,n,o);return this.draw(a),a}ellipse(t,e,s,n,o){const a=this.gen.ellipse(t,e,s,n,o);return this.draw(a),a}circle(t,e,s,n){const o=this.gen.circle(t,e,s,n);return this.draw(o),o}linearPath(t,e){const s=this.gen.linearPath(t,e);return this.draw(s),s}polygon(t,e){const s=this.gen.polygon(t,e);return this.draw(s),s}arc(t,e,s,n,o,a,r=!1,h){const i=this.gen.arc(t,e,s,n,o,a,r,h);return this.draw(i),i}curve(t,e){const s=this.gen.curve(t,e);return this.draw(s),s}path(t,e){const s=this.gen.path(t,e);return this.draw(s),s}}const tt="http://www.w3.org/2000/svg";class et{constructor(t,e){this.svg=t,this.gen=new U(e)}draw(t){const e=t.sets||[],s=t.options||this.getDefaultOptions(),n=this.svg.ownerDocument||window.document,o=n.createElementNS(tt,"g");for(const a of e){let e=null;switch(a.type){case"path":e=n.createElementNS(tt,"path"),e.setAttribute("d",this.opsToPath(a)),e.setAttribute("stroke",s.stroke),e.setAttribute("stroke-width",s.strokeWidth+""),e.setAttribute("fill","none"),s.strokeLineDash&&e.setAttribute("stroke-dasharray",s.strokeLineDash.join(" ").trim()),s.strokeLineDashOffset&&e.setAttribute("stroke-dashoffset",""+s.strokeLineDashOffset);break;case"fillPath":e=n.createElementNS(tt,"path"),e.setAttribute("d",this.opsToPath(a)),e.setAttribute("stroke","none"),e.setAttribute("stroke-width","0"),e.setAttribute("fill",s.fill||""),"curve"!==t.shape&&"polygon"!==t.shape||e.setAttribute("fill-rule","evenodd");break;case"fillSketch":e=this.fillSketch(n,a,s)}e&&o.appendChild(e)}return o}fillSketch(t,e,s){let n=s.fillWeight;n<0&&(n=s.strokeWidth/2);const o=t.createElementNS(tt,"path");return o.setAttribute("d",this.opsToPath(e)),o.setAttribute("stroke",s.fill||""),o.setAttribute("stroke-width",n+""),o.setAttribute("fill","none"),s.fillLineDash&&o.setAttribute("stroke-dasharray",s.fillLineDash.join(" ").trim()),s.fillLineDashOffset&&o.setAttribute("stroke-dashoffset",""+s.fillLineDashOffset),o}get generator(){return this.gen}getDefaultOptions(){return this.gen.defaultOptions}opsToPath(t){return this.gen.opsToPath(t)}line(t,e,s,n,o){const a=this.gen.line(t,e,s,n,o);return this.draw(a)}rectangle(t,e,s,n,o){const a=this.gen.rectangle(t,e,s,n,o);return this.draw(a)}ellipse(t,e,s,n,o){const a=this.gen.ellipse(t,e,s,n,o);return this.draw(a)}circle(t,e,s,n){const o=this.gen.circle(t,e,s,n);return this.draw(o)}linearPath(t,e){const s=this.gen.linearPath(t,e);return this.draw(s)}polygon(t,e){const s=this.gen.polygon(t,e);return this.draw(s)}arc(t,e,s,n,o,a,r=!1,h){const i=this.gen.arc(t,e,s,n,o,a,r,h);return this.draw(i)}curve(t,e){const s=this.gen.curve(t,e);return this.draw(s)}path(t,e){const s=this.gen.path(t,e);return this.draw(s)}}return{canvas:(t,e)=>new Y(t,e),svg:(t,e)=>new et(t,e),generator:t=>new U(t),newSeed:()=>U.newSeed()}}();

diff --git a/index_rough.html b/index_rough.html
@@ -1,0 +1,121 @@
+<!DOCTYPE html>
+<html>
+<head>
+    <meta charset="utf-8">
+    <meta http-equiv="X-UA-Compatible" content="IE=edge">
+    <title>DiagramFlowJS Demo</title>
+    <meta name="viewport" content="width=device-width, initial-scale=1">
+    <script src="diagramflow.js"></script>
+    <script src="rough.js"></script>
+</head>
+<body>
+    <h1>DiagramFlowJS Demo</h1>
+    With <a href="https://roughjs.com/">Rough.js</a><br>
+    <a target="github" href="http://github.com/luisalvesmartins">Github source</a>
+    <div style="position:relative;width:800px;height:500px">
+    <canvas id="myCanvas" width="100" height="100" tabindex="1"></canvas>
+    </div>
+    <div id="divSelectedNode"></div>
+
+<script>
+var img = new Image();
+img.onload = function() {
+    model.draw()
+}
+img.src = "web.svg";
+
+var Figures={
+    Rectangle:function(ctx,node){
+        const rc=rough.canvas(document.getElementById(ctx.canvas.id));
+        rc.rectangle(node.x,node.y,node.w,node.h, {fill:node.fillStyle, fillWeight:1});
+
+        node.textfill(ctx);
+    },
+    Circle:function(ctx,node){
+        const rc=rough.canvas(document.getElementById(ctx.canvas.id));
+        rc.ellipse(node.x+node.w/2,node.y+node.h/2, node.w, node.h, {fill:node.fillStyle});
+        node.textfill(ctx);
+    },
+    Diamond:function(ctx,node){
+        const rc=rough.canvas(document.getElementById(ctx.canvas.id));
+
+        ctx.beginPath();
+        y1=node.y+node.h/2;
+        x1=node.x+node.w/2;
+        x2=node.x+node.w;
+        y2=node.y+node.h;
+        //ctx.fillStyle=node.fillStyle;
+
+        const path="M" + node.x + " " + y1 + 
+                " L " + x1 + " " + node.y + 
+                " L " + x2 + " " + y1 + 
+                " L " + x1 + " " + y2 + 
+                " L " + node.x + " " + y1;
+        rc.path(path, {fill:node.fillStyle})
+
+        node.textfill(ctx);
+    },
+    Icon:function(ctx,node){
+        ctx.beginPath();
+        ctx.fillStyle=node.fillStyle;
+        ctx.strokeStyle="blue";
+        ctx.fillRect(node.x, node.y, node.w, node.h);
+        ctx.drawImage(img,node.x-24,node.y-10,150,116);
+        ctx.fillStyle="black";
+        ctx.textAlign="left"
+        ctx.fillText(node.text,node.x+5,node.y+85)
+        ctx.stroke();
+    }
+}
+
+var connectorDecoration={fillStyle:"green", strokeStyle: "black", 
+                    highlightStrokeStyle:"red", highlightText:"black"};
+var connectorDecoration1={fillStyle:"red", strokeStyle: "orange", 
+                    highlightStrokeStyle:"red", highlightText:"black"};
+var optionsInput={
+    dropAllowed:true, 
+    dragAllowed:false, 
+    radius:7};
+var optionsOutput={dropAllowed:false, dragAllowed:true, radius:7};
+
+var connectors=[
+    new model.connector(0,.25,"input","input1",connectorDecoration1,optionsInput),
+
+    new model.connector(1,.3,"output","output1",connectorDecoration,optionsOutput),
+    new model.connector(1,.6,"mixed","mixed connector",connectorDecoration),
+];
+
+model.addNode(new model.node(150,10,100,100,connectors,"A Square, dblclick me to edit the text","green","Rectangle"));
+
+model.addNode(new model.node(30,140,100,100,null,"A Circle, click on the center handle to move","white", "Circle"));
+
+var connectors2=[
+    new model.connector(0.75,.75,"output")
+];
+model.addNode(new model.node(250,80,150,150,connectors2,"A Diamond, click on the corner handle to resize.","yellow", "Diamond"));
+model.addNode(new model.node(280,250,150,100,connectors,"A Rectangle, drag from the diamond to here to link.","Cyan", "Rectangle"));
+model.addNode(new model.node(470,50,100,100,connectors,"An Image","white", "Icon"));
+
+model.addLink(new model.link(0,3,1,0,"Link text"));
+//model.addLink(new model.link(3,4,1,0,"dblclick me to edit","straight"));
+
+model.init("myCanvas");
+model.rough=true;
+model.draw();
+
+// Add an event listener
+document.addEventListener("selectionChanged", function(e) {
+    document.all("divSelectedNode").innerText="Selected node:" + e.detail;
+  });
+
+</script>
+<!-- Global site tag (gtag.js) - Google Analytics -->
+<script async src="https://www.googletagmanager.com/gtag/js?id=UA-135656500-1"></script>
+<script>
+    window.dataLayer = window.dataLayer || [];
+    function gtag() { dataLayer.push(arguments); }
+    gtag('js', new Date());
+    gtag('config', 'UA-135656500-1');
+</script>
+</body>
+</html>

diff --git a/diagramflow.js b/diagramflow.js
@@ -3,6 +3,7 @@ var model={
     nodes:[],
     links:[],
     myCanvas:null,
+    rought:false,
 
     addNode:function(node){
         this.nodes.push(node);
@@ -591,10 +592,18 @@ var model={
             var dx = tox - fromx;
             var dy = toy - fromy;
             var angle = Math.atan2(dy, dx);
-            context.beginPath();
-            context.moveTo(fromx, fromy);
-            context.lineTo(tox, toy);
-            context.stroke();
+            
+            if (model.rough){
+                const rc=rough.canvas(document.getElementById(context.canvas.id));
+                rc.line(fromx,fromy,tox,toy);
+            }
+            else{
+                context.beginPath();
+                context.moveTo(fromx, fromy);
+                context.lineTo(tox, toy);
+                context.stroke();
+            }
+
             context.beginPath();
             context.fillStyle="black";
             context.moveTo(tox, toy);

diff --git a/README.md b/README.md
@@ -9,6 +9,10 @@ Model can be extended by creating your own figures.
 
 ![sample](./sample.png)
 
+New update with the possibility of having Rough figures (https://roughjs.com/) and new sample here: https://lambot.blob.core.windows.net/github/diagramflowjs/index_rough.html 
+
+![sample_rough](./sample_rough.png)
+
 A node is added by defining the connectors and the image render:
 
 `````javascript
@@ -76,6 +80,14 @@ A link is added by calling
 
 `````javascript
 model.addLink(new model.link( fromNode, toNode, anchorFrom, anchorTo, text));
+`````
+
+Initializing the model:
+
+`````javascript
+model.init("myCanvas");
+model.rough=true;
+model.draw();
 `````
 
 Check the demo index.html page for a running example
